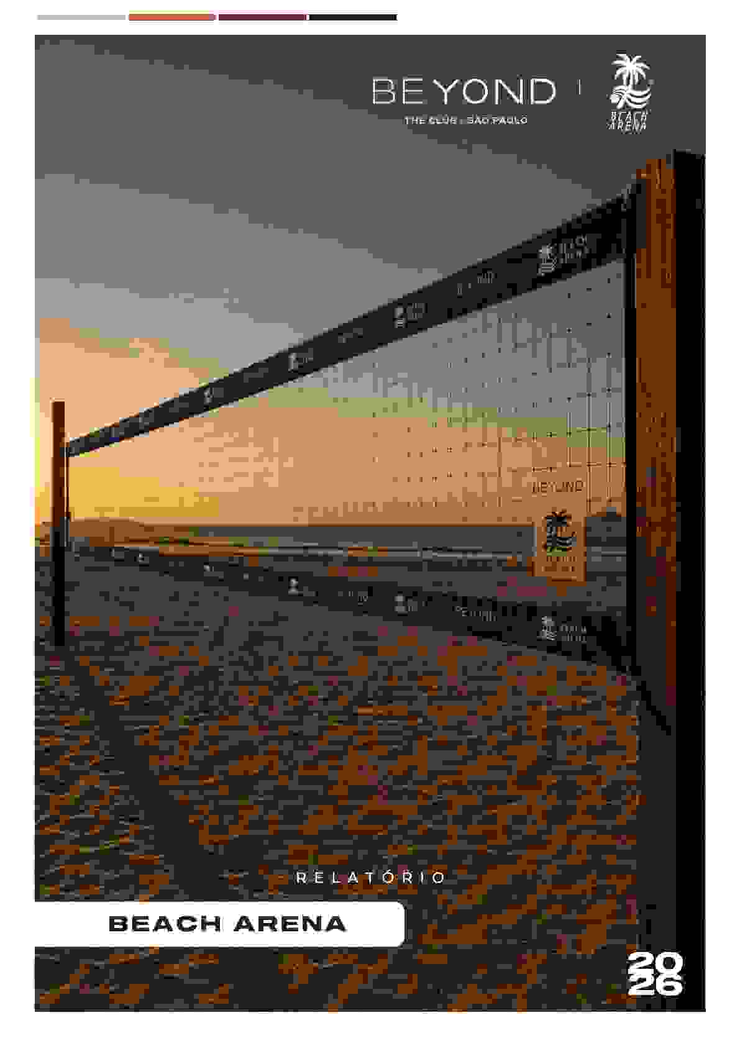
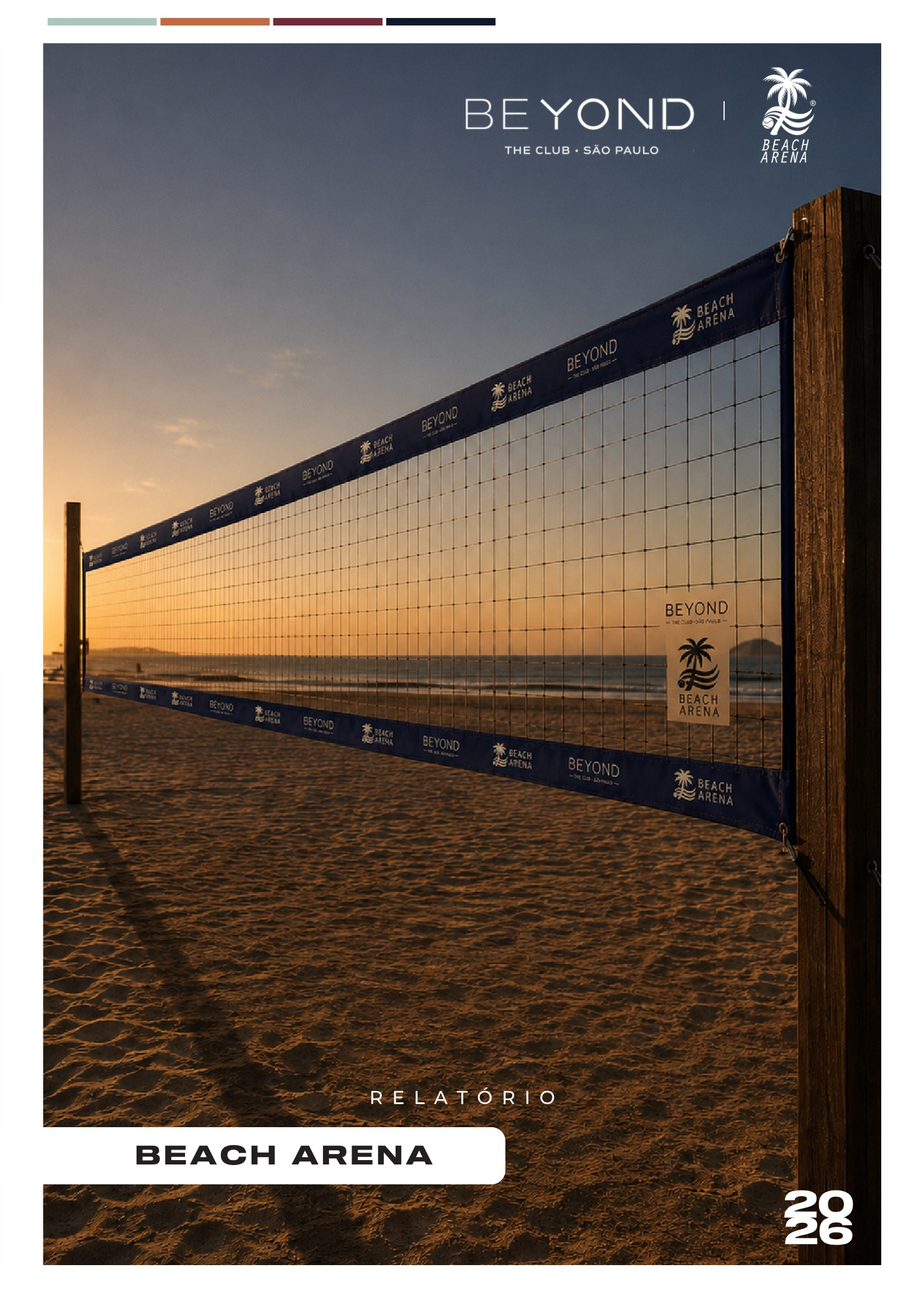
fix: corrige qualidade da capa e ajusta paginação/nota do relatório
A capa saía pixelada porque o script único de conversão do PDF de capa
pra JPEG usou a escala de qualidade errada (0-1 em vez de 0-100 que a
lib de renderização espera na prática) — as imagens saíam com um
JPEG quase no mínimo de qualidade sem erro nenhum aparecer. Re-gerei
as duas capas com a escala certa e resolução maior.

Também: nota de rodapé explicando "Falta Justificada" (chuva ou
atestado médico) no resumo executivo (PDF e PNG), e força página nova
sempre antes do Mapa de Calor e antes da Presença por Aluno, em vez de
deixar a quebra de página acontecer só quando não cabe mais conteúdo.

diff --git a/src/lib/relatorioPdf.js b/src/lib/relatorioPdf.js
@@ -503,8 +503,12 @@ export async function exportarRelatorioCompletoPDF(dados, { empresa }) {
     { label: 'Alunos Únicos', valor: resumo.alunosUnicos },
     { label: 'Presenças', valor: resumo.presentes },
     { label: 'Faltas', valor: resumo.faltas },
-    { label: 'Falta Justificada', valor: resumo.faltasJustificadas },
+    { label: 'Falta Justificada*', valor: resumo.faltasJustificadas },
   ], 4)
+  fontePadrao('italic', 7.5)
+  doc.setTextColor(...COR_TEXTO_SUAVE)
+  doc.text('* Falta Justificada: chuva ou atestado médico.', margem, cursorY - 4)
+  cursorY += 8
   blocoDestaque('Taxa de presença', `${resumo.taxaPresenca}%`, COR_VINHO)
 
   if (Object.keys(resumo.motivosCancelamento).length > 0) {
@@ -544,10 +548,14 @@ export async function exportarRelatorioCompletoPDF(dados, { empresa }) {
     )
   }
 
-  // ---------- Mapa de calor de cada modalidade em escopo ----------
-  heatmaps.forEach(({ modalidade, heatmap }) => desenharHeatmap(heatmap, modalidade))
+  // ---------- Mapa de calor de cada modalidade em escopo — sempre em página nova ----------
+  if (heatmaps.length > 0) {
+    novaPagina()
+    heatmaps.forEach(({ modalidade, heatmap }) => desenharHeatmap(heatmap, modalidade))
+  }
 
-  // ---------- Presença por aluno, separada por modalidade ----------
+  // ---------- Presença por aluno, separada por modalidade — sempre em página nova ----------
+  novaPagina()
   if (presenca.porModalidade.length === 0) {
     tituloSecao('Presença por aluno')
     fontePadrao('normal', 10)
@@ -675,12 +683,13 @@ function montarPaginaResumoHtml({ resumo, nomeEmpresa, logoBeyond, logoUnidade, 
   </div>`)
 
   secoes.push(`<div style="font-size:13px; font-weight:700; text-transform:uppercase; border-bottom:1px solid ${rgb(COR_TEXTO_SUAVE)}; padding-bottom:6px; margin:16px 0 12px;">Participação dos associados</div>`)
-  secoes.push(`<div style="display:flex; flex-wrap:wrap; gap:10px; margin-bottom:12px;">
+  secoes.push(`<div style="display:flex; flex-wrap:wrap; gap:10px; margin-bottom:4px;">
     ${chipHtml({ valor: resumo.alunosUnicos, label: 'Alunos Únicos' }, COR_SALVIA)}
     ${chipHtml({ valor: resumo.presentes, label: 'Presenças' }, COR_LARANJA)}
     ${chipHtml({ valor: resumo.faltas, label: 'Faltas' }, COR_VINHO)}
-    ${chipHtml({ valor: resumo.faltasJustificadas, label: 'Falta Justificada' }, COR_MARINHO)}
-  </div>`)
+    ${chipHtml({ valor: resumo.faltasJustificadas, label: 'Falta Justificada*' }, COR_MARINHO)}
+  </div>
+  <div style="font-size:9px; font-style:italic; color:${rgb(COR_TEXTO_SUAVE)}; margin-bottom:12px;">* Falta Justificada: chuva ou atestado médico.</div>`)
   secoes.push(`<div style="background:${rgb(COR_BRANCO)}; border:1px solid rgba(0,0,0,0.08); border-radius:8px; padding:12px 16px; display:flex; align-items:center; justify-content:space-between; margin-bottom:16px;">
     <div style="font-size:12px;">Taxa de presença</div>
     <div style="font-size:20px; font-weight:800; color:${rgb(COR_VINHO)};">${resumo.taxaPresenca}%</div>
